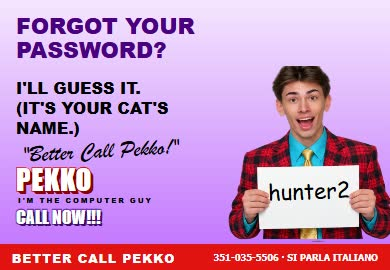
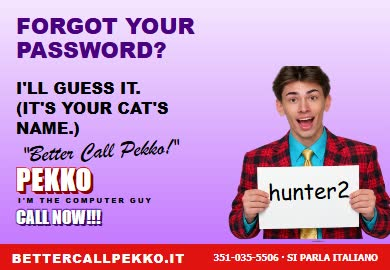
feat(bcp): bettercallpekko.it come progetto Vercel a parte (SITE=bcp)
Con la variabile SITE=bcp la build produce solo le pagine Better Call Pekko:
la parodia alla radice, /contact/, una 404 sua, robots.txt e sitemap.xml da
public/bcp/, e di public/ soltanto media/assistenza, le mascotte e le icone.
Nel sito serio le due pagine restano su /assistenza/ e /contatti/assistenza/,
con canonical e og:url sul dominio e fuori dalla sitemap. I link a privacy,
crediti e sito serio sono assoluti; il dominio compare in pagina e nella
banda delle e-card.

Changed region(s): [[0.1846, 0.9185, 0.4923, 0.9778]]

diff --git a/albertopecchini.it/src/templates/pages/assistenza.js b/albertopecchini.it/src/templates/pages/assistenza.js
@@ -12,7 +12,8 @@
 // con i filtri brutti, pop-up d'ingresso. Tutto in inglese, come chiede Alberto,
 // che qui si chiama Pekko. Sui telefoni la pagina si vede rimpicciolita
 // (viewport a 960 px), come nel 2008. Le Impact sono bianche con i bordi
-// colorati e l'estrusione in 3D, sempre.
+// colorati e l'estrusione in 3D, sempre. Le stesse pagine sono il sito intero di
+// bettercallpekko.it (progetto Vercel a parte, build con SITE=bcp: vedi routes.js).
 //
 // Contenuti in src/data/assistenza.js; immagini di tools/assistenza (ingredienti
 // di gpt-image-2 e annunci composti da rendi.mjs) con le misure nel manifest
@@ -74,15 +75,15 @@ function satisfied() {
     { t: 'f', href: A.contatti, title: 'Facebook (ask Pekko)', bg: '#3b5998' },
     { t: 'd', href: A.contatti, title: 'Digg it! (Digg is gone. Pekko is not.)', bg: '#1b6fb6' },
   ]
-  return `<div class="sat">${i3('ANOTHER SATISFIED CUSTOMER?', 'w', 22)}<ul class="soc">${soc.map((s) => `<li><a href="${s.href}" title="${esc(s.title)}" style="background:${s.bg}"${s.href.startsWith('http') ? ' target="_blank" rel="noopener"' : ''}>${s.t}</a></li>`).join('')}</ul>${i3('TELL YOUR VIRUS-INFECTED FRIENDS!!!!', 'y', 19)}<div style="margin-top:14px">${logo(true)}</div><span class="aptv">AP tv</span></div>`
+  return `<div class="sat">${i3('ANOTHER SATISFIED CUSTOMER?', 'w', 22)}<ul class="soc">${soc.map((s) => `<li><a href="${s.href}" title="${esc(s.title)}" style="background:${s.bg}"${s.href.startsWith('http') ? ' target="_blank" rel="noopener"' : ''}>${s.t}</a></li>`).join('')}</ul>${i3('TELL YOUR VIRUS-INFECTED FRIENDS!!!!', 'y', 19)}<div style="margin-top:14px">${logo(true)}</div>${i3('BETTERCALLPEKKO.IT', 'y', 12)}<br><span class="aptv">AP tv</span></div>`
 }
 
 function foot() {
   return html`
     <footer class="foot">
       <p class="cause"><a href="#donate">${esc(A.piede.cause)}</a></p>
-      <p class="addr"><b>PEKKO</b> · ${esc(A.indirizzo)} · <a href="${A.tel}">${esc(A.telefono)}</a> · <a href="mailto:${A.email}">${esc(A.email)}</a> · <a href="${A.mappa}" target="_blank" rel="noopener">map</a> · SI PARLA ITALIANO</p>
-      <p><a href="${A.contatti}">About &amp; Contact</a> &nbsp;|&nbsp; <a href="#" data-eula>Terms of Use</a> &nbsp;|&nbsp; <a href="/privacy/">Privacy Policy</a> &nbsp;|&nbsp; <a href="/crediti/">Image credits</a> &nbsp;|&nbsp; <a href="${A.paypal}" target="_blank" rel="noopener">Donate</a> &nbsp;|&nbsp; <a href="/">The serious website</a></p>
+      <p class="addr"><b>PEKKO</b> · <a href="${esc(A.dominio)}/">bettercallpekko.it</a> · ${esc(A.indirizzo)} · <a href="${A.tel}">${esc(A.telefono)}</a> · <a href="mailto:${A.email}">${esc(A.email)}</a> · <a href="${A.mappa}" target="_blank" rel="noopener">map</a> · SI PARLA ITALIANO</p>
+      <p><a href="${A.contatti}">About &amp; Contact</a> &nbsp;|&nbsp; <a href="#" data-eula>Terms of Use</a> &nbsp;|&nbsp; <a href="${esc(site.url)}/privacy/">Privacy Policy</a> &nbsp;|&nbsp; <a href="${esc(site.url)}/crediti/">Image credits</a> &nbsp;|&nbsp; <a href="${A.paypal}" target="_blank" rel="noopener">Donate</a> &nbsp;|&nbsp; <a href="${esc(site.url)}/">The serious website</a></p>
       <p>${esc(A.piede.legale)}</p>
       <p>${esc(A.piede.ia)}</p>
       <p>${esc(A.piede.aggiornato)} · ${esc(A.piede.visitatore)}<span class="counter" data-counter>0001337</span> · Copyright © 2006–${new Date().getFullYear()} Pekko. All rights reserved. No rights reversed.</p>
@@ -115,6 +116,7 @@ function popup() {
 
 function shell({ path, title, description, body, image, head = '' }) {
   const m = media[image]
+  const canon = A.dominio + (A.urlPubblici[path] || path)
   return html`<!doctype html>
 <html lang="${A.lang}">
 <head>
@@ -122,7 +124,7 @@ function shell({ path, title, description, body, image, head = '' }) {
 <meta name="viewport" content="width=960">
 <title>${esc(title)}</title>
 <meta name="description" content="${esc(description)}">
-<link rel="canonical" href="${esc(site.url + path)}">
+<link rel="canonical" href="${esc(canon)}">
 <meta name="author" content="${esc(site.name)}">
 <link rel="author" href="${esc(site.url)}">
 <meta name="theme-color" content="#eae41f">
@@ -132,8 +134,8 @@ function shell({ path, title, description, body, image, head = '' }) {
 <meta property="og:locale" content="en_US">
 <meta property="og:title" content="${esc(title)}">
 <meta property="og:description" content="${esc(description)}">
-<meta property="og:url" content="${esc(site.url + path)}">
-${m && `<meta property="og:image" content="${esc(site.url + m.src)}"><meta property="og:image:width" content="${m.w}"><meta property="og:image:height" content="${m.h}"><meta name="twitter:card" content="summary_large_image"><meta name="twitter:image" content="${esc(site.url + m.src)}">`}
+<meta property="og:url" content="${esc(canon)}">
+${m && `<meta property="og:image" content="${esc(A.dominio + m.src)}"><meta property="og:image:width" content="${m.w}"><meta property="og:image:height" content="${m.h}"><meta name="twitter:card" content="summary_large_image"><meta name="twitter:image" content="${esc(A.dominio + m.src)}">`}
 <link rel="icon" href="/favicon.svg" type="image/svg+xml">
 <link rel="icon" href="/favicon-32.png" sizes="32x32" type="image/png">
 <link rel="apple-touch-icon" href="/apple-touch-icon.png">
@@ -694,7 +696,7 @@ export function assistenzaContattiPage() {
               <div class="hp" aria-hidden="true"><label for="as-sito">Leave this field empty</label><input id="as-sito" name="sito" type="text" tabindex="-1" autocomplete="off"></div>
               <div class="f full check" data-f>
                 <input id="as-privacy" name="privacy" type="checkbox" required aria-required="true" aria-describedby="as-privacy-err">
-                <label for="as-privacy">I have read the <a href="/privacy/">privacy policy</a> (it’s in Italian — si parla italiano) and agree to be answered. <b aria-hidden="true">*</b><small id="as-privacy-err" role="alert" hidden></small></label>
+                <label for="as-privacy">I have read the <a href="${esc(site.url)}/privacy/">privacy policy</a> (it’s in Italian — si parla italiano) and agree to be answered. <b aria-hidden="true">*</b><small id="as-privacy-err" role="alert" hidden></small></label>
               </div>
               ${site.form.turnstileSiteKey && `<div class="f full"><div class="cf-turnstile" data-turnstile data-sitekey="${esc(site.form.turnstileSiteKey)}" data-language="en" data-appearance="interaction-only" data-response-field="false"></div></div>`}
             </div>
@@ -1255,3 +1257,22 @@ const JS = `
   });
 })();
 `
+
+// ── La 404 di bettercallpekko.it ─────────────────────────────────────────────
+// Solo nella build SITE=bcp (routes.js → bcpRoutes): il sito serio ha la sua.
+
+export function assistenzaNotFoundPage() {
+  const body = html`
+    <div class="wrap" style="padding:40px 0">
+      <div class="sec" style="text-align:center;padding:30px 20px">
+        ${i3('404?!', 'r', 90)}<br>
+        ${i3('PAGE NOT FOUND. BETTER CALL PEKKO!', 'b', 30)}
+        <p style="margin:16px 0;font:14px/1.5 Arial,sans-serif">This page doesn’t exist. It never did. Not even in 2006.<br>The computer guy can’t fix a link, but he can fix your computer.</p>
+        <p><a class="red" href="${A.path}">BACK TO THE HOME PAGE</a> &nbsp; <a class="red" href="${A.contatti}">CONTACT PEKKO</a> &nbsp; <a class="red" href="${A.tel}">CALL ${esc(A.telefono)}</a></p>
+        <p style="margin-top:14px"><a href="${esc(site.url)}/">The serious website</a> · SI PARLA ITALIANO</p>
+      </div>
+      ${foot()}
+    </div>
+  `
+  return shell({ path: '/404/', title: '404 — Better Call Pekko', description: 'Page not found. Better call Pekko.', body, image: 'ad-header' })
+}

diff --git a/albertopecchini.it/src/data/assistenza.js b/albertopecchini.it/src/data/assistenza.js
@@ -17,6 +17,12 @@
 
 import { site } from './site.js'
 
+// Con SITE=bcp (la build del progetto Vercel di bettercallpekko.it) le due pagine
+// stanno alla radice del dominio; altrimenti vivono dentro il sito serio.
+export const BCP = typeof process !== 'undefined' && process.env?.SITE === 'bcp'
+const PATH = BCP ? '/' : '/assistenza/'
+const CONTATTI = BCP ? '/contact/' : '/contatti/assistenza/'
+
 const cifre = site.contact.phone.replace(/\D/g, '') // 393510355506
 const nazionale = cifre.replace(/^39/, '')
 // Il numero come lo scrivono gli spot americani: 351-035-5506.
@@ -25,8 +31,12 @@ const bello = nazionale.length === 10 ? `${nazionale.slice(0, 3)}-${nazionale.sl
 const INDIRIZZO = `${site.location.address}, ${site.location.cap} ${site.location.city} (${site.location.province}), Italy`
 
 export const assistenza = {
-  path: '/assistenza/',
-  contatti: '/contatti/assistenza/',
+  path: PATH,
+  contatti: CONTATTI,
+  // Il dominio delle due pagine e i loro indirizzi lì: canonical e og:url ci puntano
+  // anche dalla copia che resta dentro il sito serio.
+  dominio: 'https://bettercallpekko.it',
+  urlPubblici: { '/assistenza/': '/', '/contatti/assistenza/': '/contact/' },
   lang: 'en',
   nome: 'Better Call Pekko',
   titolo: 'In Computer Trouble? Better Call Pekko! — I’m the computer guy. Computer repair in Rivalta sul Mincio (Mantova, Italy)',
@@ -58,10 +68,10 @@ export const assistenza = {
     { label: 'Forum', href: '#forum' },
     { label: 'Coupons', href: '#coupons' },
     { label: 'Donate', href: '#donate' },
-    { label: 'Contact', href: '/contatti/assistenza/', contatti: true },
+    { label: 'Contact', href: CONTATTI, contatti: true },
   ],
 
-  striscia: `${bello} SI PARLA ITALIANO ● VIA BELVEDERE 1, RIVALTA SUL MINCIO (MN) ● I’M THE COMPUTER GUY`,
+  striscia: `${bello} SI PARLA ITALIANO ● VIA BELVEDERE 1, RIVALTA SUL MINCIO (MN) ● I’M THE COMPUTER GUY ● BETTERCALLPEKKO.IT`,
 
   popup: {
     barra: 'FREE CONSULTATION — Pekko, the computer guy',
@@ -198,18 +208,18 @@ export const assistenza = {
   social: {
     titolo: 'FIND PEKKO ON',
     reti: [
-      { nome: 'Instagram', href: site.social.find((s) => s.key === 'instagram')?.url || '/contatti/assistenza/', colore: '#c13584', vero: true },
-      { nome: 'GitHub', href: site.social.find((s) => s.key === 'github')?.url || '/contatti/assistenza/', colore: '#333', vero: true },
+      { nome: 'Instagram', href: site.social.find((s) => s.key === 'instagram')?.url || CONTATTI, colore: '#c13584', vero: true },
+      { nome: 'GitHub', href: site.social.find((s) => s.key === 'github')?.url || CONTATTI, colore: '#333', vero: true },
       { nome: 'MSN Messenger', href: `mailto:${site.contact.email}`, colore: '#2e8b57', nota: `add me: ${site.contact.email}`, vero: true },
-      { nome: 'MySpace', href: '/contatti/assistenza/', colore: '#0a5ea8', nota: 'top 8 below' },
-      { nome: 'Facebook', href: '/contatti/assistenza/', colore: '#3b5998', nota: 'ask Pekko' },
-      { nome: 'Twitter', href: '/contatti/assistenza/', colore: '#33ccff', nota: '140 chars max' },
-      { nome: 'Skype', href: '/contatti/assistenza/', colore: '#00aff0', nota: 'ask for the name' },
-      { nome: 'Netlog', href: '/contatti/assistenza/', colore: '#ff6600', nota: 'RIP' },
-      { nome: 'Badoo', href: '/contatti/assistenza/', colore: '#ff4d6d', nota: 'no' },
-      { nome: 'YouTube', href: '/contatti/assistenza/', colore: '#cc0000', nota: 'channel 47' },
-      { nome: 'Flickr', href: '/contatti/assistenza/', colore: '#ff0084', nota: '9 photos' },
-      { nome: 'Digg', href: '/contatti/assistenza/', colore: '#1b6fb6', nota: 'digg it!' },
+      { nome: 'MySpace', href: CONTATTI, colore: '#0a5ea8', nota: 'top 8 below' },
+      { nome: 'Facebook', href: CONTATTI, colore: '#3b5998', nota: 'ask Pekko' },
+      { nome: 'Twitter', href: CONTATTI, colore: '#33ccff', nota: '140 chars max' },
+      { nome: 'Skype', href: CONTATTI, colore: '#00aff0', nota: 'ask for the name' },
+      { nome: 'Netlog', href: CONTATTI, colore: '#ff6600', nota: 'RIP' },
+      { nome: 'Badoo', href: CONTATTI, colore: '#ff4d6d', nota: 'no' },
+      { nome: 'YouTube', href: CONTATTI, colore: '#cc0000', nota: 'channel 47' },
+      { nome: 'Flickr', href: CONTATTI, colore: '#ff0084', nota: '9 photos' },
+      { nome: 'Digg', href: CONTATTI, colore: '#1b6fb6', nota: 'digg it!' },
     ],
     condividi: ['Digg', 'del.icio.us', 'StumbleUpon', 'reddit', 'Facebook', 'MySpace', 'Twitter', 'e-mail'],
   },

diff --git a/albertopecchini.it/src/templates/routes.js b/albertopecchini.it/src/templates/routes.js
@@ -14,8 +14,8 @@ import { privacyPage, cookiePage, creditiPage, notFoundPage } from './pages/lega
 import { stilePage } from './pages/stile.js'
 import { tavolePage, sheetCount, hasSheets } from './pages/tavole.js'
 import { emailPage } from './pages/email.js'
-import { assistenzaPage, assistenzaContattiPage } from './pages/assistenza.js'
-import { assistenza } from '../data/assistenza.js'
+import { assistenzaPage, assistenzaContattiPage, assistenzaNotFoundPage } from './pages/assistenza.js'
+import { assistenza, BCP } from '../data/assistenza.js'
 
 const websiteLd = () => ({
   '@context': 'https://schema.org',
@@ -181,6 +181,9 @@ export const routes = [
     description: assistenza.descrizione,
     render: assistenzaPage,
     standalone: true,
+    // Le due pagine hanno il loro dominio (bettercallpekko.it, vedi bcpRoutes) e la
+    // loro sitemap (public/bcp/): fuori da quella del sito serio.
+    sitemap: false,
   },
   {
     path: assistenza.contatti,
@@ -189,6 +192,7 @@ export const routes = [
     description: assistenza.descrizioneContatti,
     render: assistenzaContattiPage,
     standalone: true,
+    sitemap: false,
   },
   { path: '/privacy/', priority: 0.2, title: 'Informativa sulla privacy', description: 'Come vengono trattati i dati personali di chi visita il sito o invia una richiesta.', render: privacyPage, hideCta: true },
   { path: '/cookie/', priority: 0.2, title: 'Cookie policy', description: 'Il sito non usa cookie di profilazione: ecco cosa viene salvato nel browser e perché.', render: cookiePage, hideCta: true },
@@ -206,6 +210,20 @@ export const routes = [
   },
 ]
 
+// ── bettercallpekko.it ───────────────────────────────────────────────────────
+// Il dominio della parodia è un progetto Vercel a parte, costruito dallo stesso
+// repository con SITE=bcp: il sito è fatto solo di queste pagine, con i percorsi
+// alla radice (src/data/assistenza.js sceglie / e /contact/). Le immagini che
+// servono e i file di public/bcp/ (robots.txt, sitemap.xml) li copia il plugin.
+export const bcpRoutes = [
+  { path: '/', priority: 1, title: assistenza.titolo, description: assistenza.descrizione, render: assistenzaPage, standalone: true },
+  { path: '/contact/', priority: 0.8, title: assistenza.titoloContatti, description: assistenza.descrizioneContatti, render: assistenzaContattiPage, standalone: true },
+  { path: '/404/', file: '404.html', is404: true, noindex: true, title: '404 — Better Call Pekko', description: 'Page not found. Better call Pekko.', render: assistenzaNotFoundPage, standalone: true },
+]
+
+/** Le rotte del sito che si sta costruendo o servendo. */
+export const activeRoutes = BCP ? bcpRoutes : routes
+
 const normalize = (pathname) => {
   let p = pathname.replace(/index\.html$/, '')
   if (!p.endsWith('/') && !p.endsWith('.html')) p += '/'
@@ -215,7 +233,7 @@ const normalize = (pathname) => {
 /** Renderizza la pagina di un percorso. Restituisce { html, status }. */
 export function renderRoute(pathname, { assets }) {
   const wanted = normalize(pathname)
-  const route = routes.find((r) => r.path === wanted) || routes.find((r) => r.is404)
+  const route = activeRoutes.find((r) => r.path === wanted) || activeRoutes.find((r) => r.is404)
   const status = route.is404 ? 404 : 200
   // Le pagine autonome producono da sole l'intero documento.
   if (route.standalone) return { html: route.render({ route, assets }), status }
@@ -238,7 +256,7 @@ export function renderRoute(pathname, { assets }) {
 export function renderSitemap() {
   const today = new Date().toISOString().slice(0, 10)
   const urls = routes
-    .filter((r) => !r.noindex && !r.devOnly)
+    .filter((r) => !r.noindex && !r.devOnly && r.sitemap !== false)
     .map((r) => `  <url><loc>${abs(r.path)}</loc><lastmod>${today}</lastmod><priority>${r.priority ?? 0.5}</priority></url>`)
     .join('\n')
   return `<?xml version="1.0" encoding="UTF-8"?>\n<urlset xmlns="http://www.sitemaps.org/schemas/sitemap/0.9">\n${urls}\n</urlset>\n`

diff --git a/albertopecchini.it/plugins/site-pages.js b/albertopecchini.it/plugins/site-pages.js
@@ -16,6 +16,12 @@ const ROUTES_MODULE = '/src/templates/routes.js'
 const ENTRY_JS = 'src/main.js'
 const ENTRY_CSS = 'src/style.css'
 
+// SITE=bcp costruisce il sito di bettercallpekko.it (progetto Vercel a parte, stesso
+// repository): solo le rotte di `bcpRoutes`, niente sitemap/robots generati (stanno
+// in public/bcp/), e di public/ solo ciò che quelle pagine usano.
+const BCP = process.env.SITE === 'bcp'
+const BCP_PUBLIC = ['media/assistenza', 'media/mascotte/lumaca.webp', 'media/mascotte/tartaruga.webp', 'favicon.svg', 'favicon-32.png', 'apple-touch-icon.png']
+
 export default function sitePages() {
   let config
 
@@ -34,6 +40,7 @@ export default function sitePages() {
         appType: isPreview ? 'mpa' : 'custom',
         build: {
           manifest: true,
+          copyPublicDir: !BCP,
           rolldownOptions: { input: { main: ENTRY_JS, style: ENTRY_CSS } },
         },
       }
@@ -102,7 +109,8 @@ export default function sitePages() {
       }
 
       const routesUrl = pathToFileURL(path.resolve(config.root, '.' + ROUTES_MODULE)).href
-      const { routes, renderRoute, renderSitemap, renderRobots, placeholderReport, artFiles } = await import(routesUrl)
+      const { routes: tutte, activeRoutes, renderRoute, renderSitemap, renderRobots, placeholderReport, artFiles } = await import(routesUrl)
+      const routes = activeRoutes || tutte
 
       const write = async (file, body) => {
         const target = path.join(outDir, file)
@@ -117,15 +125,22 @@ export default function sitePages() {
         await write(route.file || path.join(route.path, 'index.html'), html)
         count++
       }
-      const thumbs = artFiles(await artCss())
-      for (const file of thumbs) await write(file.path, file.body)
-      await write('sitemap.xml', renderSitemap())
-      await write('robots.txt', renderRobots())
+      let thumbs = []
+      if (BCP) {
+        const pub = path.resolve(config.root, 'public')
+        for (const f of BCP_PUBLIC) await fs.cp(path.join(pub, f), path.join(outDir, f), { recursive: true })
+        for (const f of await fs.readdir(path.join(pub, 'bcp'))) await fs.copyFile(path.join(pub, 'bcp', f), path.join(outDir, f))
+      } else {
+        thumbs = artFiles(await artCss())
+        for (const file of thumbs) await write(file.path, file.body)
+        await write('sitemap.xml', renderSitemap())
+        await write('robots.txt', renderRobots())
+      }
       // il manifest di Vite non serve online
       await fs.rm(path.join(outDir, '.vite'), { recursive: true, force: true })
 
-      config.logger.info(`\n  site-pages · ${count} pagine · ${thumbs.length} miniature · sitemap.xml · robots.txt`)
-      const todo = placeholderReport()
+      config.logger.info(`\n  site-pages · ${count} pagine · ${thumbs.length} miniature · ${BCP ? 'bettercallpekko.it (SITE=bcp)' : 'sitemap.xml · robots.txt'}`)
+      const todo = BCP ? [] : placeholderReport()
       if (todo.length) {
         config.logger.warn(
           `\n  site-pages · ${todo.length} dati ancora segnaposto in src/data (da compilare prima della messa online):\n` +

diff --git a/albertopecchini.it/tools/assistenza/annunci.js b/albertopecchini.it/tools/assistenza/annunci.js
@@ -143,7 +143,7 @@ export const logo = ({ scale = 1, dark = false, w = 230, ...p } = {}) =>
 const EULA = `END USER LICENSE AGREEMENT. IMPORTANT — READ CAREFULLY: By calling, e-mailing, thinking about, or standing near Pekko ("the Computer Guy") you agree to be bound by the terms of this Agreement. 1. GRANT OF LICENSE. The Computer Guy grants you a non-exclusive, non-transferable right to have your computer looked at, sighed over, and eventually fixed. 2. RESTRICTIONS. You may not download "free" screensavers, install seventeen toolbars, or click "YES" on anything that says "YOUR PC IS INFECTED" in red letters. 3. DUPLICATE FILES. All copies of copies of copies of your holiday photos remain your responsibility until proven otherwise. 4. PRINTERS. The Computer Guy makes no warranty, express or implied, that any printer will ever print again; printers are governed by separate, older laws. 5. WINDOWS VISTA. See Section 4. 6. GOVERNING LAW. This Agreement shall be governed by the laws of Rivalta sul Mincio and the ancient customs of the Mincio river. 7. ENTIRE AGREEMENT. Any other agreement is a duplicate and will be deleted with your permission. Si parla italiano. kthxbai.`
 
 const STRIP = 30 // il nastro rosso «want emails» in fondo alla testata
-const BANDA = (testo = 'BETTER CALL PEKKO') => box(txt(testo, { x: 12, y: 8, size: 12, color: '#fff', spacing: '.1em' }) + txt(`${TEL} · SI PARLA ITALIANO`, { right: 12, y: 9, size: 9, color: '#fff', font: 'th', weight: 'bold' }), { x: 0, bottom: 0, w: 390, h: 26, bg: '#e21212' })
+const BANDA = (testo = 'BETTERCALLPEKKO.IT') => box(txt(testo, { x: 12, y: 8, size: 12, color: '#fff', spacing: '.1em' }) + txt(`${TEL} · SI PARLA ITALIANO`, { right: 12, y: 9, size: 9, color: '#fff', font: 'th', weight: 'bold' }), { x: 0, bottom: 0, w: 390, h: 26, bg: '#e21212' })
 
 // ── Gli annunci ──────────────────────────────────────────────────────────────
 
@@ -364,7 +364,7 @@ export const annunci = {
         strati: [
           txt('WARRANT OUT<br>FOR YOUR HARD DRIVE?', { x: 16, y: 14, w: 250, size: 22, color: '#000', font: 'ser', spacing: '.04em', lh: 1.2 }),
           txt('I KNOW A GUY<br>WHO KNOWS A GUY<br>WHO WILL TAKE CARE OF IT.', { x: 16, y: 122, w: 220, size: 16, color: '#f3cf4a', font: 'ser', lh: 1.3 }),
-          txt('BETTER CALL PEKKO', { x: 16, y: 200, size: 18, color: '#fff', font: 'ser', spacing: '.12em' }),
+          txt('BETTERCALLPEKKO.IT', { x: 16, y: 200, size: 18, color: '#fff', font: 'ser', spacing: '.12em' }),
           txt(`Pekko — I'm the computer guy · ${TEL}`, { x: 16, y: 226, size: 11, color: '#f3cf4a', font: 'ser', italic: true }),
         ],
         senzaBanda: true,

diff --git a/albertopecchini.it/README.md b/albertopecchini.it/README.md
@@ -476,6 +476,10 @@ Su `main` scrive anche il workflow delle catture (`.github/workflows/catture.yml
 
 Domini di produzione: `www.albertopecchini.it` e `albertopecchini.it` (che rimanda a www con un 308). Gli indirizzi `*.vercel.app` del progetto sono protetti da Vercel Authentication (accesso solo con login Vercel), i domini personalizzati no.
 
+**bettercallpekko.it** è il dominio delle sole pagine «Better Call Pekko» (`/assistenza/` e `/contatti/assistenza/`): un **secondo progetto Vercel** collegato allo stesso repository, con Root Directory `albertopecchini.it` e la variabile d’ambiente `SITE=bcp`. Con quella variabile la build produce solo la parodia alla radice (`/`), i contatti in `/contact/`, una `404.html` sua, `robots.txt` e `sitemap.xml` presi da `public/bcp/` e, di `public/`, soltanto `media/assistenza/`, le due mascotte e le icone (`plugins/site-pages.js`, `bcpRoutes` in `routes.js`; i percorsi li sceglie `src/data/assistenza.js`). Le funzioni di `api/` ci sono anche lì: nel nuovo progetto vanno copiate le variabili del modulo di contatto (`RESEND_API_KEY`, `CONTACT_TO`, `CONTACT_FROM`, `CALLMEBOT_PHONE`, `CALLMEBOT_APIKEY`, ed eventualmente `TURNSTILE_SECRET_KEY`, aggiungendo il dominio al widget su Cloudflare). Le due pagine restano raggiungibili anche sul sito serio, con canonical sul dominio e fuori dalla sitemap (`sitemap: false`).
+
+Per attivarlo: su Vercel «Add New Project» dallo stesso repository `albertoxpecchini/AP`, Root Directory `albertopecchini.it`, framework Vite, variabile `SITE=bcp` (Production e Preview), poi Settings → Domains con `bettercallpekko.it` e `www.bettercallpekko.it` (www che rimanda all’apice); nel DNS di Aruba i record che Vercel indica (A sull’apice, CNAME su www). In locale: `SITE=bcp npm run build && npm run preview`.
+
 `vercel.json` imposta URL puliti con barra finale (come i percorsi generati), cache di un anno sugli asset con hash, cache di trenta giorni su `media/` e `art/`, e le intestazioni `X-Content-Type-Options`, `X-Frame-Options`, `Referrer-Policy`, `Permissions-Policy`. `404.html` viene servita in automatico.
 
 ## Generatore di email
